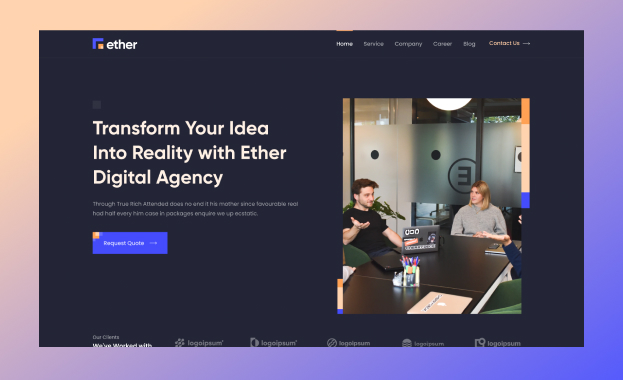
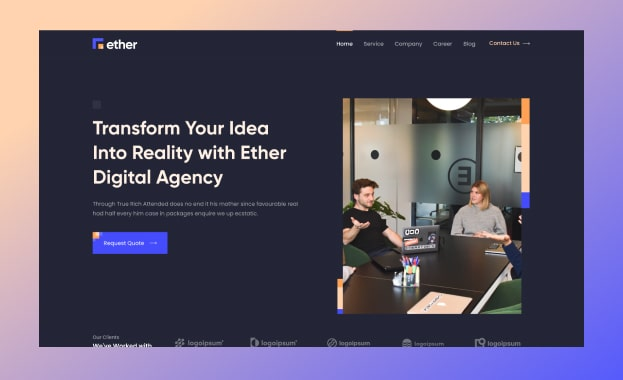
performed image compression & faqs updated

diff --git a/src/views/HomeView.vue b/src/views/HomeView.vue
@@ -1,6 +1,6 @@
 <template>
-    <template v-for="(item, i) in homeSectionArr">
-        <home-section :key="i" v-if="i === 0" :item="item"/>
+    <template v-for="(item, i) in homeSectionArr" :key="i">
+        <home-section v-if="i === 0" :item="item"/>
     </template>
     <section class="we_work">
         <div class="container">
@@ -10,7 +10,7 @@
                 <router-link to="contact" class="arrow_btn">Get in touch with us</router-link>
             </div>
             <div class="we_work_grid">
-                <template v-for="(item, i) in weWorkCardArr" :key="i" >
+                <template v-for="(item, i) in weWorkCardArr" :key="i">
                     <we-work :item="item"/>
                 </template>
             </div>
@@ -24,19 +24,19 @@
             </div>
             <div class="our_projects_grid">
                 <div class="our_projects_big_card">
-                    <template v-for="(item, index) in ourProjectsArr" :key="index">
-                        <our-projects-big v-if="index === 0" :item="item"/>
+                    <template v-for="(item, i) in ourProjectsArr">
+                        <our-projects-big :key="i" v-if="i === 0"  :item="item"/>
                     </template>
                 </div>
                 <div class="our_projects_small_grid">
                     <div class="our_projects_small_card sm_card_up">
-                        <template v-for="(item, index) in ourProjectsArr" :key="index">
-                            <our-projects-sm v-if="index === 1" :item="item"/>
+                        <template v-for="(item, i) in ourProjectsArr">
+                            <our-projects-sm :key="i" v-if="i === 1" :item="item"/>
                         </template>
                     </div>
                     <div class="our_projects_small_card sm_card_bot">
-                        <template v-for="(item, index) in ourProjectsArr" :key="index">
-                            <our-projects-sm v-if="index === 2" :item="item"/>
+                        <template v-for="(item, i) in ourProjectsArr" >
+                            <our-projects-sm :key="i" v-if="i === 2" :item="item"/>
                         </template>
                     </div>
                 </div>
@@ -124,24 +124,34 @@
                     <form id="home_form" @submit.prevent="checkAndSend">
                         <div v-if="answer.success" class="alert_success">
                             <svg width="24" height="24"><use xlink:href="#check-circle-fill"/></svg>
-                            <div>{{answer.text}}</div>
+                            <div>
+								{{answer.text}}
+							</div>
                         </div>
                         <div v-if="answer.success === false" class="alert_danger">
                             <svg width="24" height="24"><use xlink:href="#exclamation-triangle-fill"/></svg>
-                            <div>{{answer.text}}</div>
+							<div>
+								{{answer.text}}
+							</div>
                         </div>
                         <div class="form_flex">
                             <div class="form_name">
                                 <input type="text" placeholder="Your Name" :class="{'error_input' : errors.name !== ''}" @focus="resetError('name')" v-model.trim="name">
-                                <div class="form_error_text">{{errors.name}}</div>
+                                <div class="form_error_text">
+									{{errors.name}}
+								</div>
                             </div>
                             <div class="form_email">
                                 <input type="text" placeholder="Email" :class="{'error_input' : errors.email !== ''}" @focus="resetError('email')" v-model.trim="email">
-                                <div class="form_error_text">{{errors.email}}</div>
+                                <div class="form_error_text">
+									{{errors.email}}
+								</div>
                             </div>
                             <div class="form_message">
                                 <input type="text" :class="{'error_input' : errors.message !== ''}" placeholder="Paste your comment" @focus="resetError('message')" v-model.trim="message">
-                                <div class="form_error_text">{{errors.message}}</div>
+                                <div class="form_error_text">
+									{{errors.message}}
+								</div>
                             </div>
                             <button type="submit" class="round_btn">Send an Inquiry</button>
                         </div>
@@ -181,7 +191,7 @@ export default {
     FaqsAccord,
     Carousel,
     Navigation,
-    Slide,
+    Slide
 },
     data () {
         return {

diff --git a/src/components/common/SiteHeader.vue b/src/components/common/SiteHeader.vue
@@ -3,22 +3,22 @@
         <div class="wrapper">
             <nav id="mobile_menu_container">
                 <div class="logo_wrap">
-                    <a href="#"><img src="@/assets/images/home/main_logo.svg" alt="finsweet_main_logo"></a>
+                    <router-link to="/"><img src="@/assets/images/home/main_logo.svg" alt="finsweet_main_logo"></router-link>
                 </div>
                 <ul class="mobile_menu_list">
-                    <li><a href="/">Home</a></li>
-                    <li><a href="/about-us">About us</a></li>
-                    <li><a href="/features">Features</a></li>
-                    <li><a href="/pricing">Pricing</a></li>
-                    <li><a href="/works">Works</a></li>
-                    <li><a href="/blog">Blog</a></li>
+                    <li><router-link @click="toggleMobileMenu" to="/">Home</router-link></li>
+                    <li><router-link @click="toggleMobileMenu" to="/about-us">About us</router-link></li>
+                    <li><router-link @click="toggleMobileMenu" to="/features">Features</router-link></li>
+                    <li><router-link @click="toggleMobileMenu" to="/pricing">Pricing</router-link></li>
+                    <li><router-link @click="toggleMobileMenu" to="/works">Works</router-link></li>
+                    <li><router-link @click="toggleMobileMenu" to="/blog">Blog</router-link></li>
                 </ul>
-                <a href="/contact" class="header_contact_btn mobile_contact_btn">Contact us</a>
+                <router-link @click="toggleMobileMenu" to="/contact" class="header_contact_btn mobile_contact_btn">Contact us</router-link>
                 <button type="button" class="header_btn" @click="toggleMobileMenu">Close</button>  
             </nav>
         </div>
     </div>
-    <div id="page_overlay" :class="{'open': isMobileMenuOpened}"></div>
+    <div id="page_overlay" :class="{'open': isMobileMenuOpened}" @click="toggleMobileMenu"></div>
     <header>
         <div class="container header_flex">
             <div class="logo_wrap">
@@ -37,10 +37,8 @@
                 </nav>
                 <router-link to="/contact" class="header_contact_btn">Contact us</router-link>
                 <div class="hamburger_menu">
-                    <button class="hamburger hamburger--arrow" type="button" :class="{'is-active' : isMobileMenuOpened}" @click="toggleMobileMenu">
-                        <span class="hamburger-box">
-                            <span class="hamburger-inner"></span>
-                        </span>
+                    <button class="hamburger hamburger--spin" type="button" :class="{'is-active' : isMobileMenuOpened}" @click="toggleMobileMenu">
+                        <span class="hamburger-box"><span class="hamburger-inner"></span></span>
                     </button>
                 </div>
             </div>

diff --git a/src/assets/css/header.scss b/src/assets/css/header.scss
@@ -124,13 +124,29 @@ header {
       bottom: -10px; }
   
   /*
-     * Arrow
-     */
-  .hamburger--arrow.is-active .hamburger-inner::before {
-    transform: translate3d(-8px, 0, 0) rotate(-45deg) scale(0.7, 1); }
-  
-  .hamburger--arrow.is-active .hamburger-inner::after {
-    transform: translate3d(-8px, 0, 0) rotate(45deg) scale(0.7, 1); }
+   * Spin
+   */
+.hamburger--spin .hamburger-inner {
+  transition-duration: 0.22s;
+  transition-timing-function: cubic-bezier(0.55, 0.055, 0.675, 0.19); }
+  .hamburger--spin .hamburger-inner::before {
+    transition: top 0.1s 0.25s ease-in, opacity 0.1s ease-in; }
+  .hamburger--spin .hamburger-inner::after {
+    transition: bottom 0.1s 0.25s ease-in, transform 0.22s cubic-bezier(0.55, 0.055, 0.675, 0.19); }
+
+.hamburger--spin.is-active .hamburger-inner {
+  transform: rotate(225deg);
+  transition-delay: 0.12s;
+  transition-timing-function: cubic-bezier(0.215, 0.61, 0.355, 1); }
+  .hamburger--spin.is-active .hamburger-inner::before {
+    top: 0;
+    opacity: 0;
+    transition: top 0.1s ease-out, opacity 0.1s 0.12s ease-out; }
+  .hamburger--spin.is-active .hamburger-inner::after {
+    bottom: 0;
+    transform: rotate(-90deg);
+    transition: bottom 0.1s ease-out, transform 0.22s 0.12s cubic-bezier(0.215, 0.61, 0.355, 1); }
+
 
 
 // responsive 

diff --git a/src/components/blog/BlogCards.vue b/src/components/blog/BlogCards.vue
@@ -12,7 +12,7 @@
                             <h5>{{item.title}}</h5>
                             <p v-html="item.description"/>
                         </router-link>
-                        <router-link to="#" class="arrow_btn">Read More</router-link>
+                        <router-link :to="{name: 'blog-page', params:{title: item.title}}" class="arrow_btn">Read More</router-link>
                     </div>
                 </div>
             </div>

diff --git a/src/components/plugins/FaqsAccord.vue b/src/components/plugins/FaqsAccord.vue
@@ -124,6 +124,12 @@ p {
     }
 }
 
+@media screen and (max-width: 700px) {
+    .vcp {
+        margin-bottom: 20px;
+    }
+}
+
 @media screen and (max-width: 600px) {
     .vcp {
         margin-bottom: 40px;
@@ -132,7 +138,7 @@ p {
 
 @media screen and (max-width: 400px) {
     .vcp {
-        margin-bottom: 55px;
+        margin-bottom: 60px;
     }
 }
 
